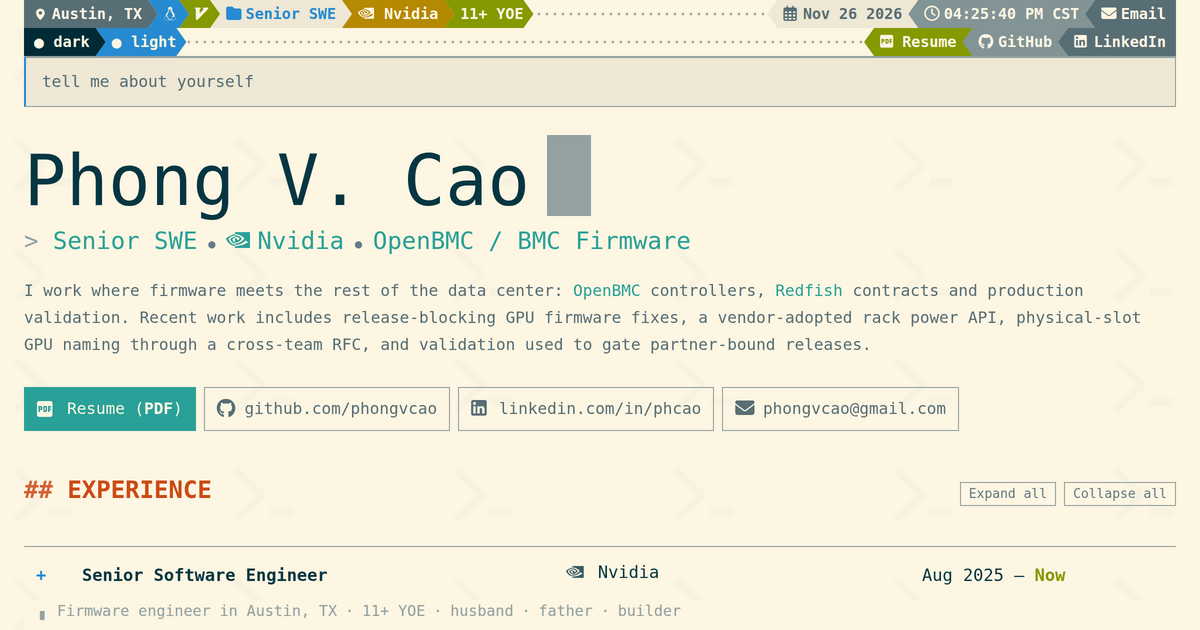
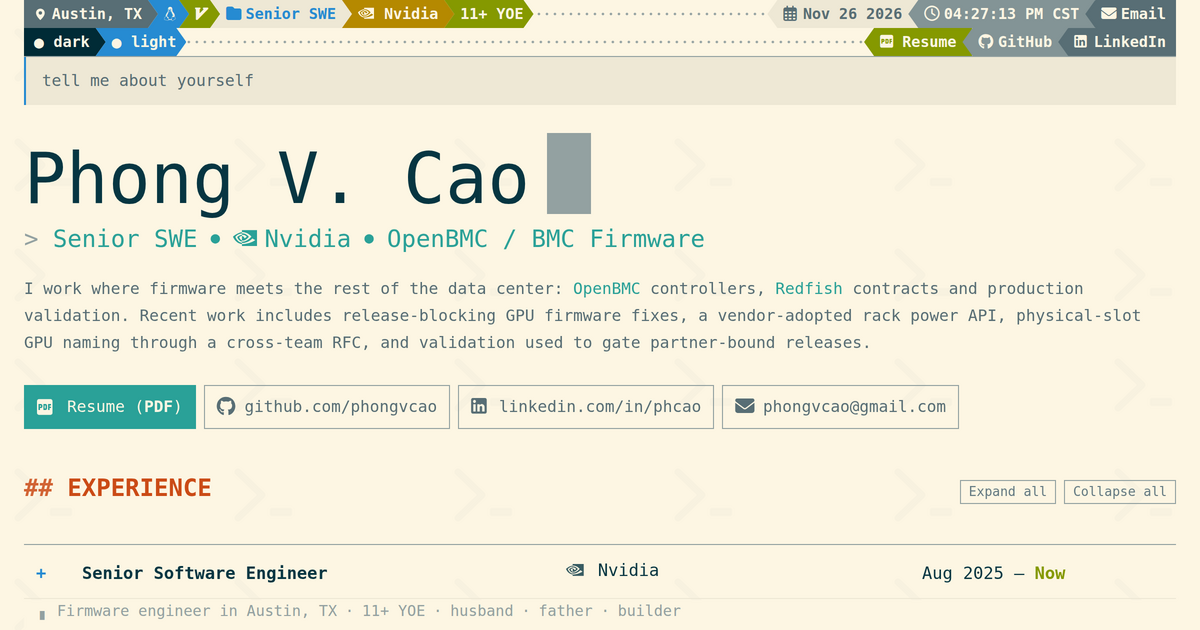
site: cyan role dots with real spacing, prompt bar drops its outline

diff --git a/styles.css b/styles.css
@@ -141,7 +141,7 @@ a:hover {
   top: var(--topbar-h);
   z-index: 40;
   padding: 12px 16px;
-  border: 1px solid var(--base01);
+  border: 0;
   border-left: 2px solid var(--blue);
   background: var(--base02);
 }
@@ -197,16 +197,16 @@ h1 {
   vertical-align: -0.12em;
 }
 
-/* Separator: the same disc the theme buttons use, muted, sitting in its own
-   slice of the monospace grid. */
+/* Separator: the same disc the theme buttons use, in the link colour, sitting
+   in a slice of the monospace grid about two cells wide on each side. */
 .role-dot {
   display: inline-block;
-  width: 2.4em;
-  color: var(--base0);
-  font-size: 0.5em;
+  width: 2.3em;
+  color: var(--cyan);
+  font-size: 0.65em;
   line-height: 1;
   text-align: center;
-  vertical-align: 0.12em;
+  vertical-align: 0.3em;
 }
 
 .role .mark {
